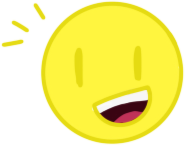
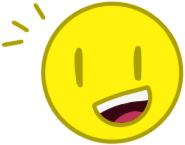
feat(app): add Sad, keep the top bar a fixed size, and grow mushrooms along the bottom
Sad is a fifth face and suggests parks, gardens and cafes. The faces sit
at the far right of the top bar and the heading at the far left, each
10px from the wall. The suggestion appears between them, so the bar no
longer changes size when it shows; on phones it has a reserved line
under the faces instead, and a name too long for three lines ends in
an ellipsis.

Tapping the chosen face again loads another place. The Clear button is
gone, and with it the lock on "In your own words": the box can be
written in with a face chosen.

A strip of glowing mushrooms runs along the bottom of the screen, in
front of the side panels and behind the main panels and buttons, so it
never covers them or takes their clicks.

Enter's shadow is as faint as the panels'. Happy uses the redrawn face.

diff --git a/src/index.css b/src/index.css
@@ -4,7 +4,6 @@
   --accent: #ff00dc;
   --button: #ffd60a;
   --muted: #6b6b6b;
-  --locked: #ebebeb;
   --font: 'Playpen Sans Variable', system-ui, sans-serif;
   --border: 4px solid var(--ink);
   --shadow: 6px 6px 0 rgb(0 0 0 /0.35);
@@ -43,6 +42,17 @@ html {
 
 body {
   margin: 0;
+}
+
+/* The mushroom strip along the bottom of the screen, in front of the side panels but behind .center, so it never covers a button or the full-screen map. Clicks pass through it anyway. */
+body::after {
+  content: '';
+  position: fixed;
+  inset: auto 0 0;
+  z-index: 0;
+  aspect-ratio: 1640 / 174;
+  background: url('./assets/lowerbar.png') bottom / 100% auto no-repeat;
+  pointer-events: none;
 }
 
 :focus-visible {
@@ -96,6 +106,8 @@ body {
 }
 
 .center {
+  position: relative;
+  z-index: 1;
   display: grid;
   grid-template-columns: repeat(2, minmax(0, 1fr));
   grid-template-rows: auto minmax(0, 1fr) auto;
@@ -125,27 +137,46 @@ body {
   }
 }
 
-/* The faces sit in the last column, against the panel's right edge, so nothing else on the row can move them, and the row is at least as tall as Clear, so it keeps its height when Clear appears. Their size leaves 7rem for the heading, which wraps "How are you / feeling?" onto two lines on narrow screens. */
+/* The heading sits on the left and the faces at the far right. The suggestion is positioned over its grid area, so it never sizes a row: the bar is the same height with or without it. On phones it gets a row of its own under the faces, three lines tall and always there. */
 .emotion-body {
   --face-gap: calc(var(--tight) * 1.6);
-  --face: calc(clamp(var(--tap), min(8.4vh, (100cqi - 7rem - 2 * var(--tight) - 3 * var(--face-gap)) / 4), 84px) - 5px);
+  /* The width the five faces may take; on phones, everything beside a 7rem heading ("How are you / feeling?" on two lines). */
+  --face-room: calc(100cqi - 7rem - var(--tight));
+  --face: calc(0.9 * min(clamp(var(--tap), 8.4vh, 84px) - 5px, (var(--face-room) - 4 * var(--face-gap)) / 5));
+  --suggestion-size: 0.8125rem;
+  --suggestion-lines: calc(3 * 1.25 * var(--suggestion-size));
 
+  position: relative;
   display: grid;
-  grid-template-columns: minmax(0, 1fr) auto auto;
-  grid-template-rows: minmax(var(--tap), auto);
+  grid-template-columns: minmax(7rem, 1fr) auto;
+  grid-template-rows: auto var(--suggestion-lines);
   align-items: center;
   gap: var(--tight);
 }
 
+/* Wide enough for the suggestion to sit between the heading and the faces, with 12.5rem kept for the heading on one line and 11rem for the suggestion. */
+@container (width >= 40rem) {
+  .emotion-body {
+    --face-room: calc(100cqi - 23.5rem - 2 * var(--tight));
+
+    grid-template-columns: auto minmax(0, 1fr) auto;
+    grid-template-rows: minmax(var(--suggestion-lines), auto);
+  }
+}
+
+/* 10px from the panel's left wall, out into the panel's side padding. */
 .emotion-heading {
-  margin: 0;
+  grid-area: 1 / 1;
+  margin: 0 0 0 calc(10px - var(--inset) * 1.2);
   line-height: 1.2;
 }
 
+/* 10px from the panel's right wall, matching the heading on the left. */
 .faces {
-  grid-area: 1 / 3;
+  grid-area: 1 / -2;
   display: flex;
   gap: var(--face-gap);
+  margin-right: calc(10px - var(--inset) * 1.2);
 }
 
 .face {
@@ -177,55 +208,30 @@ body {
   outline-offset: 2px;
 }
 
-.emotion-status {
-  grid-column: 1 / -1;
-  display: flex;
-  align-items: center;
-  gap: var(--tight) 12px;
-}
-
-/* Out of the grid flow when there is nothing to show, so the live region stays rendered without adding a row. */
-.emotion-status:not(:has(p, button)) {
-  position: absolute;
-}
-
 .suggestion {
-  flex: 1 1 0;
-}
-
-.suggestion:empty {
   position: absolute;
+  inset: 0;
+  grid-area: 2 / 1 / 3 / -1;
+  display: grid;
+  place-items: center;
+  font-size: var(--suggestion-size);
+  line-height: 1.25;
+  text-align: center;
 }
 
+/* A name too long for three lines is cut short rather than growing the bar. */
 .suggestion p {
+  display: -webkit-box;
   margin: 0;
+  overflow: hidden;
+  -webkit-box-orient: vertical;
+  -webkit-line-clamp: 3;
+  line-clamp: 3;
 }
 
-.clear-button {
-  flex: none;
-  font-size: 0.875rem;
-}
-
-@media (height < 500px) {
-  /* Short screens are wide, so Clear fits on the faces' row, just left of them, and the suggestion keeps to one line of height. */
-  .emotion-status {
-    display: contents;
-  }
-
-  .clear-button {
-    grid-area: 1 / 2;
-  }
-
+@container (width >= 40rem) {
   .suggestion {
-    grid-column: 1 / -1;
-  }
-
-  .suggestion p {
-    display: inline;
-  }
-
-  .suggestion p + p::before {
-    content: ' ';
+    grid-area: 1 / 2 / 2 / 3;
   }
 }
 
@@ -248,13 +254,6 @@ body {
   resize: none;
 }
 
-.summary textarea:disabled {
-  border-color: var(--muted);
-  background: var(--locked);
-  color: var(--muted);
-  cursor: not-allowed;
-}
-
 .summary-submit {
   display: flex;
   flex-wrap: wrap;
@@ -269,13 +268,6 @@ body {
 
 .summary-submit [role='status'] {
   font-weight: 700;
-}
-
-.summary-note {
-  flex: 1 1 0;
-  min-width: 9em;
-  color: var(--muted);
-  font-size: 0.875rem;
 }
 
 .button {
@@ -315,6 +307,15 @@ body {
   background: var(--paper);
   color: var(--muted);
   cursor: not-allowed;
+}
+
+/* Enter's shadow is as faint as the panels'. */
+.summary-submit .button {
+  box-shadow: 4px 4px 0 rgb(0 0 0 / 0.35);
+}
+
+.summary-submit .button:focus-visible {
+  box-shadow: var(--halo), 4px 4px 0 rgb(0 0 0 / 0.35);
 }
 
 .gps-slot {

diff --git a/src/App.tsx b/src/App.tsx
@@ -3,6 +3,7 @@ import angryFace from './assets/ANGRY.png'
 import tiredFace from './assets/BORDEM.png'
 import happyFace from './assets/HAPPY.png'
 import hungryFace from './assets/HUNGER.png'
+import sadFace from './assets/SAD.png'
 import { EMOTIONS, type Emotion } from './emotions'
 import { useCurrentPosition } from './geo'
 import GpsMap from './GpsMap'
@@ -12,7 +13,7 @@ import { useSpot, type Suggestion } from './useSpot'
 
 const mapsApp = MAPS_APPS[preferredMapsApp(navigator.userAgent)]
 
-const FACES: Record<Emotion, string> = { Happy: happyFace, Angry: angryFace, Tired: tiredFace, Hungry: hungryFace }
+const FACES: Record<Emotion, string> = { Happy: happyFace, Angry: angryFace, Tired: tiredFace, Hungry: hungryFace, Sad: sadFace }
 
 type SuggestionOf<S extends Suggestion['status']> = Extract<Suggestion, { status: S }>
 
@@ -43,18 +44,16 @@ export default function App() {
   const [summary, setSummary] = useState('')
   const [entered, setEntered] = useState<{ emotion: Emotion | null; summary: string } | null>(null)
   const [mapOpen, setMapOpen] = useState(false)
-  const emotionsRef = useRef<HTMLFieldSetElement>(null)
   const filterRef = useRef<HTMLDialogElement>(null)
   const { location, locate } = useCurrentPosition()
-  const { spot, suggestion, suggest, tapSpot, clear } = useSpot(location)
+  const { spot, suggestion, suggest, tapSpot } = useSpot(location)
   const gotIt = entered !== null && entered.emotion === emotion && entered.summary === summary
-  const locked = emotion !== null
 
   return (
     <div className="page">
       <aside className="panel side" aria-hidden="true" />
       <main className="center">
-        <fieldset ref={emotionsRef} className="panel emotion" inert={mapOpen} aria-labelledby="emotion-heading">
+        <fieldset className="panel emotion" inert={mapOpen} aria-labelledby="emotion-heading">
           <div className="emotion-body">
             <p id="emotion-heading" className="emotion-heading">
               How are you feeling?
@@ -74,25 +73,8 @@ export default function App() {
                 </label>
               ))}
             </div>
-            <div className="emotion-status">
-              <div className="suggestion" role="status">
-                {suggestionText(suggestion).map((line) => (
-                  <p key={line}>{line}</p>
-                ))}
-              </div>
-              {emotion && (
-                <button
-                  className="button clear-button"
-                  type="button"
-                  onClick={() => {
-                    emotionsRef.current?.querySelector<HTMLInputElement>(':checked')?.focus()
-                    setEmotion(null)
-                    clear()
-                  }}
-                >
-                  Clear
-                </button>
-              )}
+            <div className="suggestion" role="status">
+              <p>{suggestionText(suggestion).join(' ')}</p>
             </div>
           </div>
         </fieldset>
@@ -109,16 +91,9 @@ export default function App() {
             id="summary"
             placeholder="Enter your own summary of how you feel here"
             value={summary}
-            disabled={locked}
-            aria-describedby={locked ? 'summary-locked' : undefined}
             onChange={(event) => setSummary(event.target.value)}
           />
           <div className="summary-submit">
-            {locked && (
-              <p id="summary-locked" className="summary-note">
-                Clear the emotion to write your own.
-              </p>
-            )}
             <p role="status">{gotIt && 'Got it'}</p>
             <button className="button primary" type="submit" disabled={emotion === null && summary.trim() === ''}>
               Enter

diff --git a/src/useSpot.ts b/src/useSpot.ts
@@ -100,10 +100,5 @@ export function useSpot(location: LocationState) {
     setSpot({ origin: 'tapped', position })
   }, [])
 
-  const clear = useCallback(() => {
-    setSearch({ status: 'idle' })
-    setSpot(withoutSuggestedSpot)
-  }, [])
-
-  return { spot, suggestion: toSuggestion(search, location), suggest, tapSpot, clear }
+  return { spot, suggestion: toSuggestion(search, location), suggest, tapSpot }
 }

diff --git a/src/places.ts b/src/places.ts
@@ -23,6 +23,7 @@ export const PLACES_FOR_EMOTION: Record<Emotion, readonly PlaceKindId[]> = {
   Angry: ['sportsCentre', 'gym', 'park'],
   Tired: ['cafe', 'library', 'garden'],
   Hungry: ['restaurant', 'fastFood', 'cafe', 'marketplace'],
+  Sad: ['park', 'garden', 'cafe'],
 }
 
 export type Place = { name: string; position: LatLng; kind: PlaceKindId }

diff --git a/src/emotions.ts b/src/emotions.ts
@@ -1,3 +1,3 @@
-export const EMOTIONS = ['Happy', 'Angry', 'Tired', 'Hungry'] as const
+export const EMOTIONS = ['Happy', 'Angry', 'Tired', 'Hungry', 'Sad'] as const
 
 export type Emotion = (typeof EMOTIONS)[number]
